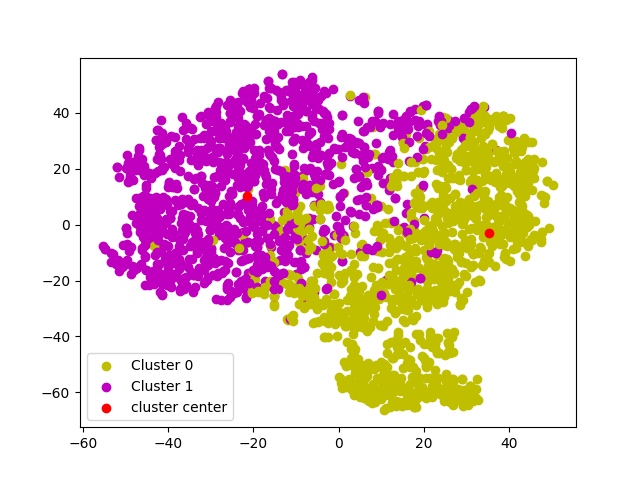
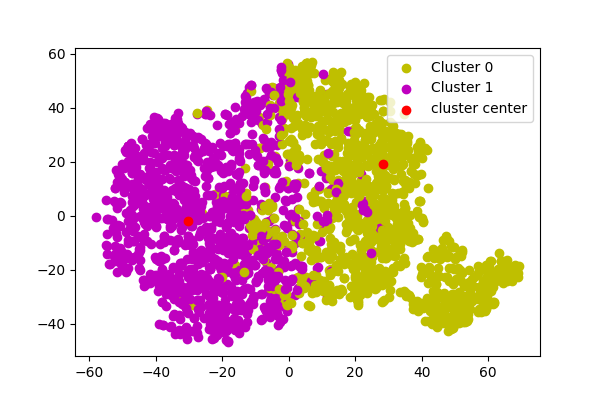
modified:   prototype/2_cluster_plot.png 	new file:   prototype/DBSCAN.png 	modified:   prototype/Figure_1.png 	modified:   prototype/clustering.py 	modified:   prototype/imagemap.png

diff --git a/prototype/clustering.py b/prototype/clustering.py
@@ -10,9 +10,9 @@ from keras.models import Model
 
 # clustering and dimension reduction
 from sklearn.cluster import KMeans
+from sklearn.cluster import DBSCAN
 from sklearn.decomposition import PCA
 from sklearn.manifold import TSNE
-#import hdbscan
 # for everything else
 import copy
 import os
@@ -121,6 +121,7 @@ for l in range(k):
     label.append('cluster center')
     edge.append('r')
 visited=set()
+plt.figure(figsize=(6,4))
 for loc,c,lb in zip(projection,col,lab):
     if lb not in visited:
         visited.add(lb)
@@ -129,6 +130,7 @@ for loc,c,lb in zip(projection,col,lab):
         plt.scatter(*loc,c=c)
 plt.legend()
 plt.show()
+plt.figure(figsize=(6,4))
 visited=set()
 for loc,c,lb in zip(projection,edge,label):
     if lb not in visited:
@@ -168,9 +170,69 @@ for k in list_k:
 
 # Plot sse against k
 print(sse)
+plt.figure(figsize=(6,4))
 plt.plot(list_k, sse)
 plt.xlabel(r'Number of clusters *k*')
 plt.ylabel('Sum of squared distance');
 plt.show()
-#HDBSCAN coded below here
-
+#DBSCAN coded below here
+maxn=0
+maxe=0
+maxs=0
+colors=['r','g','b','c','y','m','k','tab:orange','tab:brown']
+plt.figure(figsize=(6,4))
+visited=set()
+list_eps=list(range(1,50,1))
+for n in range(2,11):
+    for e in list_eps:
+        db=DBSCAN(eps=e,min_samples=n).fit(x)
+        labels = db.labels_
+        n_clusters_ = len(set(labels)) - (1 if -1 in labels else 0)
+        n_noise_ = list(labels).count(-1)
+        if n_clusters_>=2:
+            emergency_counts=[]
+            religious_counts=[]
+            for i in range(n_clusters_):
+                emergency_counts.append(0)
+                religious_counts.append(0)
+            print("Current eps,n: %d, %d" %(e,n))
+            print("Estimated number of clusters, noise points: %d, %d" % (n_clusters_,n_noise_))
+            for file, cluster in zip(filenames, labels):
+                if cluster==-1:
+                    continue
+                if emergency==os.path.dirname(file):
+                    emergency_counts[cluster]+=1
+                elif religious==os.path.dirname(file):
+                    religious_counts[cluster]+=1
+            emergency_success=0
+            religious_success=0
+            for i in range(n_clusters_):
+                if emergency_counts[i]>religious_counts[i]:
+                    emergency_success+=emergency_counts[i]
+                if emergency_counts[i]<religious_counts[i]:
+                    religious_success+=religious_counts[i]
+            #these are hardcoded because I'm lazy
+            total_success=(emergency_success+religious_success)/2443
+            print("Emergency success %:"+str(emergency_success/1462))
+            print("Relgiious success %:"+str(religious_success/981))
+            print("Total success %:"+str(total_success))
+            if str(n) not in visited:
+                plt.scatter(e,total_success,label=str(n),c=colors[n-2])
+                visited.add(str(n))
+            else:
+                plt.scatter(e,total_success,c=colors[n-2])
+            if total_success>maxs:
+                maxs=total_success
+                maxn=n
+                maxe=e
+        else:
+            if str(n) not in visited:
+                plt.scatter(e,0,label=str(n),c=colors[n-2])
+                visited.add(str(n))
+            else:
+                plt.scatter(e,0,c=colors[n-2])
+plt.legend(title="Minimum number of\n elements in a cluster:")
+plt.xlabel("Maximum distance between 2 points")
+plt.ylabel("Sorting accuracy")
+plt.show()
+print("Maximum n,e,success: %d, %d, %f" %(maxn,maxe,maxs))
